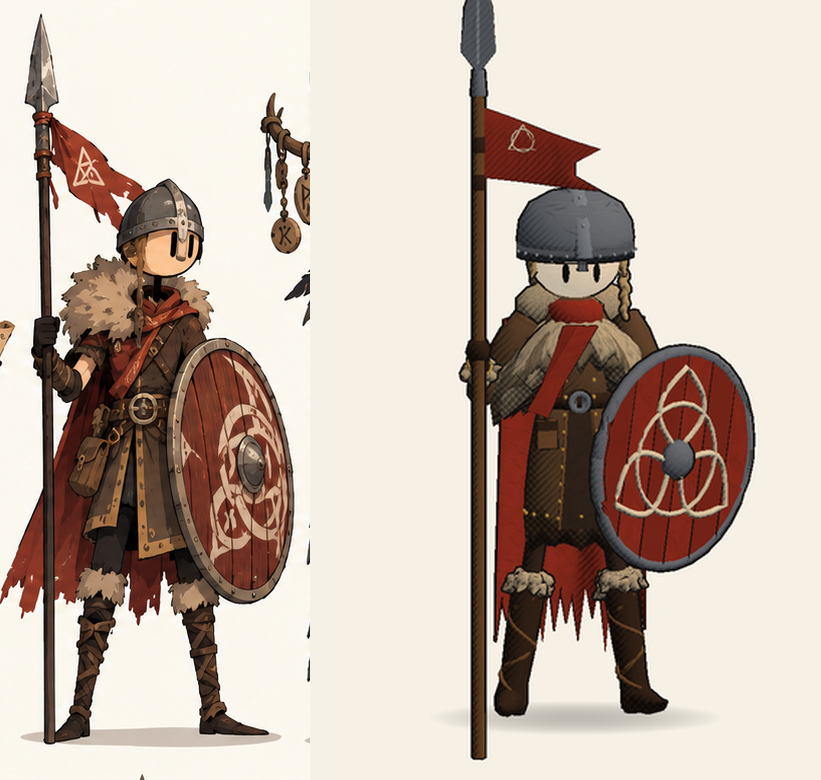
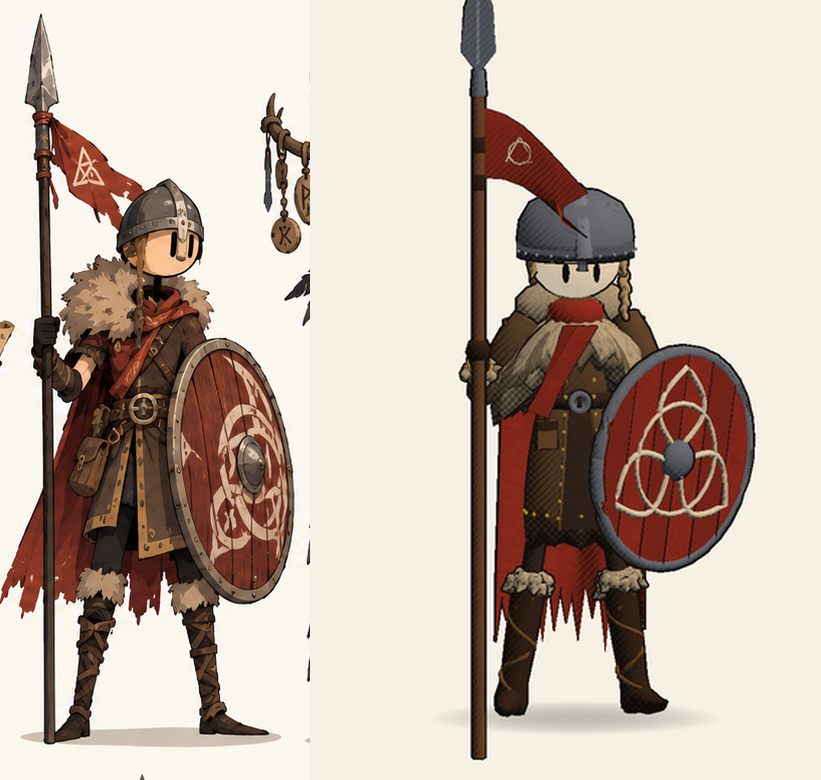
Spear Guard pass 5: the pennant droops from the shaft
In still air the red pennant now hangs away from the spear in a slow curve,
as in the concept art, instead of standing out like a flag; the knot sign
follows it.

Claude-Session: https://claude.ai/code/session_01SCdejJ1UF8RUxAkkFhZXGU

Changed region(s): [[0.609, 0.1538, 0.7308, 0.3077]]

diff --git a/OdinsCoin/Assets/Scripts/Characters/HeroModel.cs b/OdinsCoin/Assets/Scripts/Characters/HeroModel.cs
@@ -204,13 +204,15 @@ namespace OdinsCoin
                             {
                                 float u = c / (float)(pcol - 1), v = r / (float)(prow - 1);
                                 float tail = u > 0.7f ? (r == 1 || r == 2 ? -0.05f : 0.03f) * (u - 0.7f) / 0.3f : 0f;
-                                grid[r, c] = new Vector3(0.01f * s * Mathf.Sin(u * 5f), (0.02f + u * 0.34f + tail) * s, (0.76f - v * (0.22f - 0.09f * u) - u * 0.12f) * s);
+                                // Hanging in still air: it droops away from the shaft in a slow curve.
+                                float droop = 0.2f * u * u + 0.06f * u;
+                                grid[r, c] = new Vector3(0.012f * s * Mathf.Sin(u * 5f), (0.02f + u * 0.3f + tail) * s, (0.76f - v * (0.22f - 0.08f * u) - droop) * s);
                             }
                         d.Add(Joints.Weapon, d.pal.accent, CharacterKit.Sheet(grid, Vector3.right, 0.008f * s));
                         // The knot sign, painted on both faces of the cloth.
                         foreach (float cx in new[] { 0.015f, 0.004f })
                         {
-                            var c0 = new Vector3(cx * s, 0.14f * s, 0.66f * s);
+                            var c0 = new Vector3(cx * s, 0.13f * s, 0.62f * s);
                             var ring = new Vector3[13];
                             var rr = new float[13];
                             for (int i = 0; i < ring.Length; i++) { float a = i / 12f * Mathf.PI * 2f; ring[i] = c0 + new Vector3(0f, Mathf.Cos(a), Mathf.Sin(a)) * 0.036f * s; rr[i] = 0.003f * s; }
